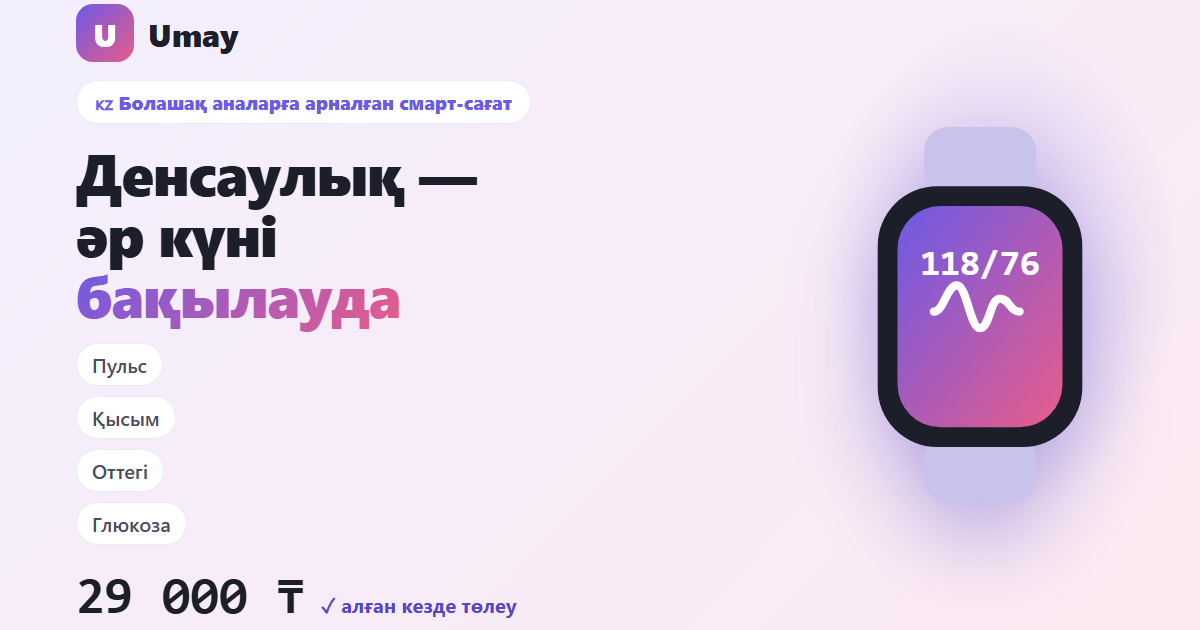
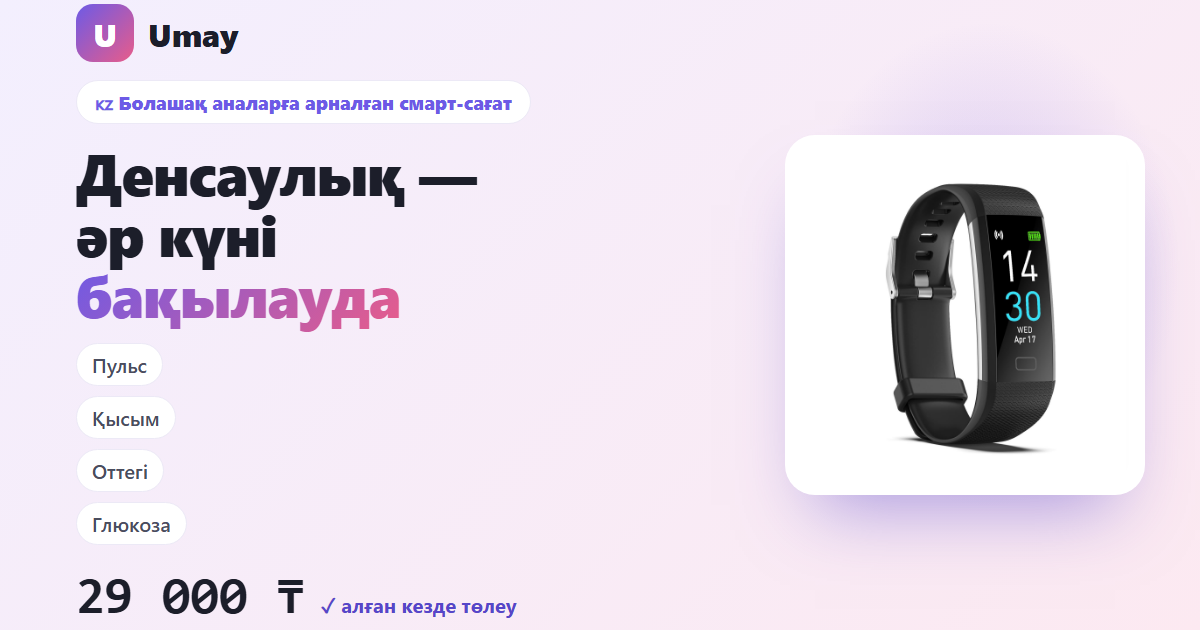
feat(shop): real product photos on the mom-watch landing (hero, colours, OG)
Wires the actual product shots in place of the SVG placeholder:
- Hero: the real watch in a clean floating white card (works in light + dark).
- "Colours" section: a photo gallery of the seven clean single-watch shots
  (black, white, grey, pink, red, teal, army) in white cards with KZ/RU labels,
  replacing the coloured dots.
- Social-preview card rebuilt with the real photo.

Photos are served from /shop/photos/*.jpg (serveImage now takes a content type);
gallery images are lazy-loaded. Verified: all seven serve 200 image/jpeg and
decode 7/7, the hero loads, and the OG card shows the real product.

Note: only seven colours had clean, text-free shots — blue/purple/orange were
supplied only inside Chinese-branded banners, so they're omitted rather than
shown with the supplier's branding. Send clean shots of those three and I'll
add them.

Changed region(s): [[0.6783, 0.181, 0.9558, 0.8444]]

diff --git a/packages/backend/shop/umay-watch.html b/packages/backend/shop/umay-watch.html
@@ -188,7 +188,17 @@
   .final p{opacity:.95;margin:12px auto 0;max-width:48ch}
   .final .ticks{margin-top:16px;display:flex;flex-wrap:wrap;gap:8px 20px;justify-content:center;font-size:13.5px;opacity:.95}
   .final .ticks span{display:inline-flex;gap:6px;align-items:center}
-  @media(prefers-reduced-motion:reduce){html{scroll-behavior:auto}html.js .reveal{opacity:1;transform:none}.reveal.in{transition:none}html.js .hero-copy>*{animation:none}.hero-art svg{animation:none}.btn.pulse{animation:none}.feat:hover,.step:hover{transform:none}}
+  /* real product photos */
+  .hero-art .shotcard{animation:floaty 5.5s ease-in-out infinite}
+  .shotcard{background:#fff;border-radius:26px;padding:10px;box-shadow:0 34px 66px -30px rgba(88,70,201,.5),0 2px 10px rgba(0,0,0,.06);max-width:360px;width:82%}
+  .shotcard img{width:100%;display:block;border-radius:18px}
+  .colorshots{display:grid;grid-template-columns:repeat(4,1fr);gap:16px;margin-top:28px}
+  @media(max-width:820px){.colorshots{grid-template-columns:1fr 1fr}}
+  .colorshots figure{margin:0;background:#fff;border:1px solid var(--hair);border-radius:18px;padding:8px;box-shadow:var(--shadow-sm);transition:transform .18s ease}
+  .colorshots figure:hover{transform:translateY(-4px)}
+  .colorshots img{width:100%;display:block;border-radius:12px;aspect-ratio:1;object-fit:cover;background:#fff}
+  .colorshots figcaption{text-align:center;font-size:13px;font-weight:700;color:var(--muted);padding:8px 0 4px}
+  @media(prefers-reduced-motion:reduce){html{scroll-behavior:auto}html.js .reveal{opacity:1;transform:none}.reveal.in{transition:none}html.js .hero-copy>*{animation:none}.hero-art svg,.hero-art .shotcard{animation:none}.btn.pulse{animation:none}.feat:hover,.step:hover,.colorshots figure:hover{transform:none}}
 </style>
 
 <script>document.documentElement.classList.add('js')</script>
@@ -225,7 +235,7 @@
   </div>
   <div class="hero-art">
     <div class="halo"></div>
-    <svg viewBox="0 0 200 240" aria-label="Umay"><rect x="66" y="6" width="68" height="42" rx="15" fill="#c9c2ea"/><rect x="66" y="192" width="68" height="42" rx="15" fill="#c9c2ea"/><rect x="38" y="42" width="124" height="158" rx="36" fill="#1C1E2A"/><rect x="50" y="54" width="100" height="134" rx="26" fill="url(#g1)"/><path d="M72 118c6 0 8-16 14-16s8 26 14 26 6-18 12-18 6 8 12 8" fill="none" stroke="#fff" stroke-width="5" stroke-linecap="round" stroke-linejoin="round"/><text x="100" y="96" text-anchor="middle" fill="#fff" font-family="monospace" font-weight="800" font-size="22">118/76</text><defs><linearGradient id="g1" x1="0" y1="0" x2="1" y2="1"><stop offset="0" stop-color="#6D5AE6"/><stop offset="1" stop-color="#E85C8A"/></linearGradient></defs></svg>
+    <div class="shotcard"><img src="/shop/photos/watch-black.jpg" alt="Umay смарт-сағат" width="700" height="700" fetchpriority="high"></div>
   </div>
 </div></section>
 
@@ -314,16 +324,14 @@
   <div class="kicker" data-i18n="col_kicker">Түстер</div>
   <h2 data-i18n="col_h2">Тоғыз түсте</h2>
   <p class="sec-lede" data-i18n="col_lede">Өзіңізге ұнайтын түсті таңдаңыз.</p>
-  <div class="colors reveal">
-    <div class="color"><span class="dot" style="background:#1C1E2A"></span><span data-i18n="col_black">Қара</span></div>
-    <div class="color"><span class="dot" style="background:#3B4C7A"></span><span data-i18n="col_blue">Көк</span></div>
-    <div class="color"><span class="dot" style="background:#4B5320"></span><span data-i18n="col_army">Әскери жасыл</span></div>
-    <div class="color"><span class="dot" style="background:#7C3AED"></span><span data-i18n="col_purple">Күлгін</span></div>
-    <div class="color"><span class="dot" style="background:#F472B6"></span><span data-i18n="col_pink">Қызғылт</span></div>
-    <div class="color"><span class="dot" style="background:#34D399"></span><span data-i18n="col_green">Жасыл</span></div>
-    <div class="color"><span class="dot" style="background:#CBD5E1"></span><span data-i18n="col_gray">Ашық сұр</span></div>
-    <div class="color"><span class="dot" style="background:#FB7247"></span><span data-i18n="col_orange">Қызғылт сары</span></div>
-    <div class="color"><span class="dot" style="background:#EF4444"></span><span data-i18n="col_red">Қызыл</span></div>
+  <div class="colorshots reveal">
+    <figure><img src="/shop/photos/watch-black.jpg" alt="" loading="lazy" width="400" height="400"><figcaption data-i18n="col_black">Қара</figcaption></figure>
+    <figure><img src="/shop/photos/watch-white.jpg" alt="" loading="lazy" width="400" height="400"><figcaption data-i18n="col_white">Ақ</figcaption></figure>
+    <figure><img src="/shop/photos/watch-gray.jpg" alt="" loading="lazy" width="400" height="400"><figcaption data-i18n="col_gray">Ашық сұр</figcaption></figure>
+    <figure><img src="/shop/photos/watch-pink.jpg" alt="" loading="lazy" width="400" height="400"><figcaption data-i18n="col_pink">Қызғылт</figcaption></figure>
+    <figure><img src="/shop/photos/watch-red.jpg" alt="" loading="lazy" width="400" height="400"><figcaption data-i18n="col_red">Қызыл</figcaption></figure>
+    <figure><img src="/shop/photos/watch-teal.jpg" alt="" loading="lazy" width="400" height="400"><figcaption data-i18n="col_teal">Көгілдір</figcaption></figure>
+    <figure><img src="/shop/photos/watch-army.jpg" alt="" loading="lazy" width="400" height="400"><figcaption data-i18n="col_army">Әскери жасыл</figcaption></figure>
   </div>
 </div></section>
 
@@ -459,7 +467,7 @@
       sp_size_k:"Өлшемі", sp_compat_k:"Үйлесімділік", sp_compat_v:"Android және iPhone",
       col_kicker:"Түстер", col_h2:"Тоғыз түсте", col_lede:"Өзіңізге ұнайтын түсті таңдаңыз.",
       col_black:"Қара", col_blue:"Көк", col_army:"Әскери жасыл", col_purple:"Күлгін", col_pink:"Қызғылт",
-      col_green:"Жасыл", col_gray:"Ашық сұр", col_orange:"Қызғылт сары", col_red:"Қызыл",
+      col_green:"Жасыл", col_gray:"Ашық сұр", col_orange:"Қызғылт сары", col_red:"Қызыл", col_white:"Ақ", col_teal:"Көгілдір",
       or_kicker:"Тапсырыс", or_h2:"Түсті таңдап, тапсырыс беріңіз",
       or_pitch:"Алған кезде төлеу — курьер сағатты жеткізеді, ақшаны бәрі қолыңызда болғанда ғана төлейсіз. 1 жыл кепілдік, 14 күн қайтару.",
       opt_single_t:"Тек сағат", opt_bundle_t:"Сағат + балаға трекер", opt_bundle_save:"үнемдеу 2 900 ₸",
@@ -522,7 +530,7 @@
       sp_size_k:"Размер", sp_compat_k:"Совместимость", sp_compat_v:"Android и iPhone",
       col_kicker:"Цвета", col_h2:"В девяти цветах", col_lede:"Выберите цвет по душе.",
       col_black:"Чёрный", col_blue:"Синий", col_army:"Хаки", col_purple:"Фиолетовый", col_pink:"Розовый",
-      col_green:"Зелёный", col_gray:"Светло-серый", col_orange:"Оранжевый", col_red:"Красный",
+      col_green:"Зелёный", col_gray:"Светло-серый", col_orange:"Оранжевый", col_red:"Красный", col_white:"Белый", col_teal:"Бирюзовый",
       or_kicker:"Оформление заказа", or_h2:"Выберите цвет и оформите",
       or_pitch:"Оплата при получении — курьер привезёт часы, вы платите, только когда всё у вас в руках. Гарантия 1 год, возврат 14 дней.",
       opt_single_t:"Только часы", opt_bundle_t:"Часы + детский трекер", opt_bundle_save:"экономия 2 900 ₸",

diff --git a/packages/backend/src/index.ts b/packages/backend/src/index.ts
@@ -253,9 +253,9 @@ async function main(): Promise<void> {
     };
     // Social-preview cards — real PNGs crawlers can fetch (data: URIs and relative
     // paths are unreliable across scrapers), cached hard; they change only with art.
-    const serveImage = (path: string, file: string) => {
+    const serveImage = (path: string, file: string, type = 'image/png') => {
       const bytes = readFileSync(fileURLToPath(new URL(`../shop/${file}`, import.meta.url)));
-      app.get(path, async (_req, reply) => reply.type('image/png').header('cache-control', 'public, max-age=86400').send(bytes));
+      app.get(path, async (_req, reply) => reply.type(type).header('cache-control', 'public, max-age=86400').send(bytes));
     };
 
     servePage('/shop', 'index.html',
@@ -286,6 +286,12 @@ async function main(): Promise<void> {
         '29 000 ₸, алған кезде төлеу, Қазақстан бойынша жеткізу, 1 жыл кепілдік. / Умные часы для будущих мам.',
       '/shop/umay-watch-og.png');
     serveImage('/shop/umay-watch-og.png', 'umay-watch-og.png');
+
+    // Real product photos (single watch on white) for the landing hero + colour
+    // gallery. JPEG, cached hard.
+    for (const c of ['black', 'white', 'gray', 'pink', 'red', 'teal', 'army']) {
+      serveImage(`/shop/photos/watch-${c}.jpg`, `photos/watch-${c}.jpg`, 'image/jpeg');
+    }
   } catch {
     app.log.warn('shop storefront html not found; /shop pages disabled');
   }
